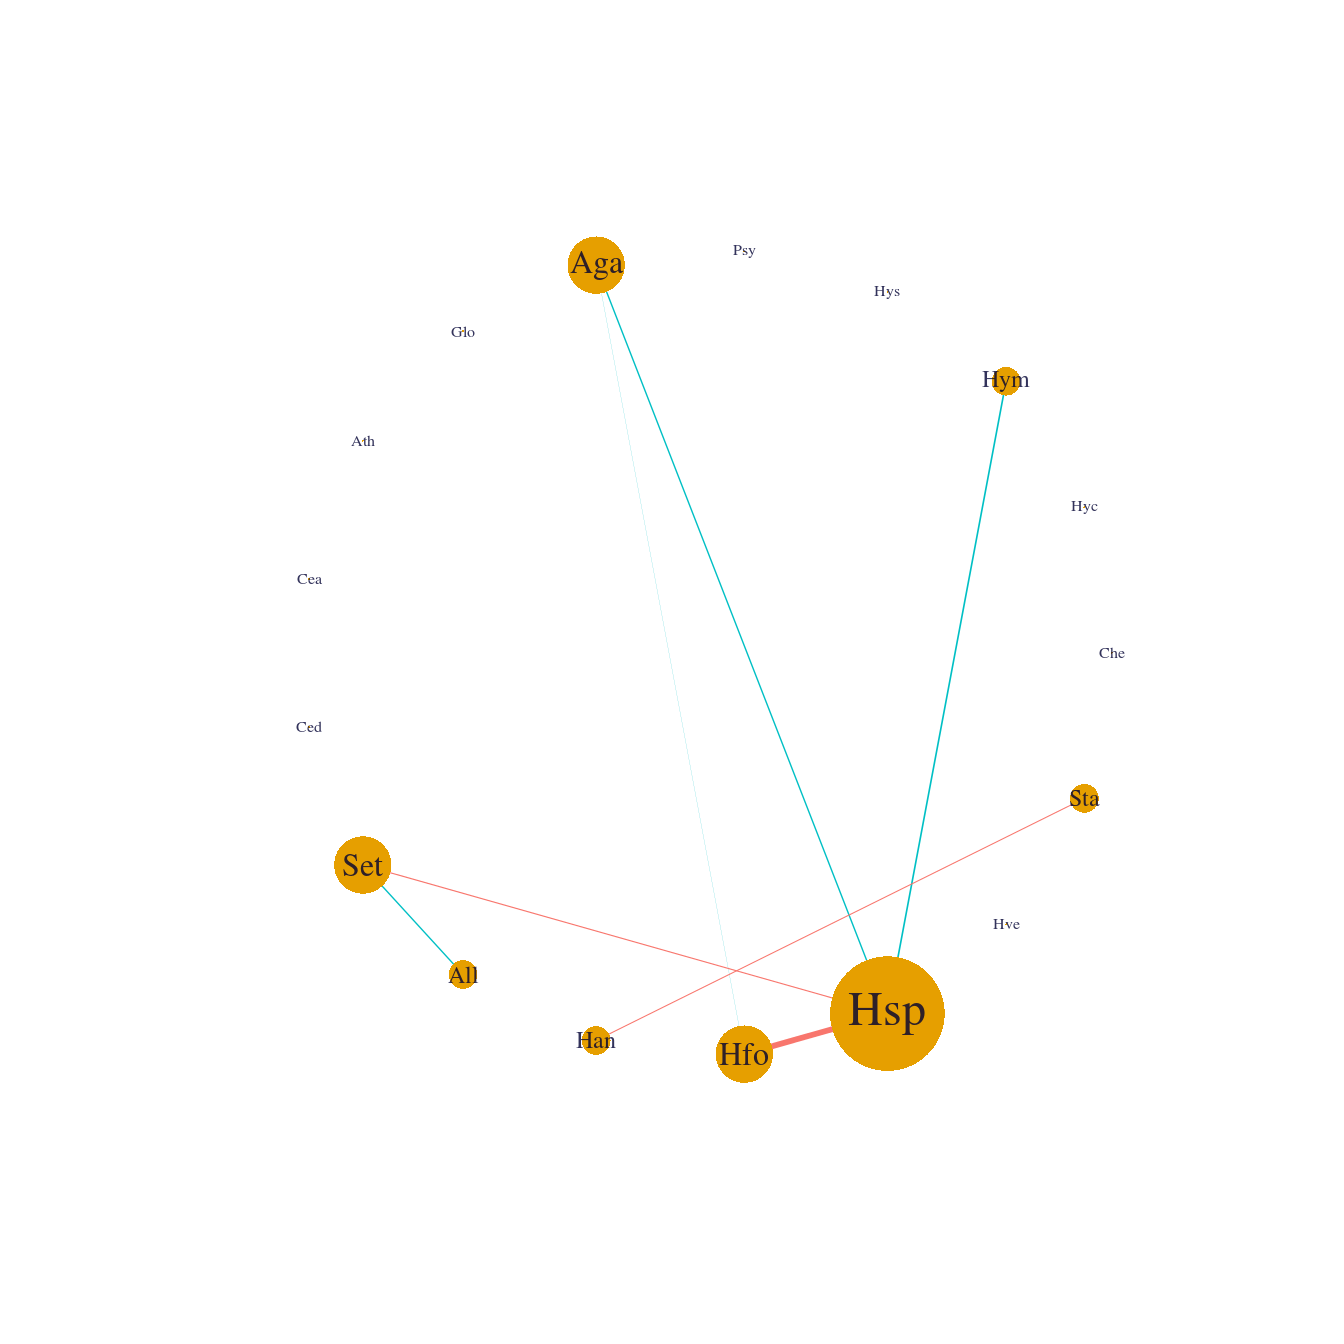
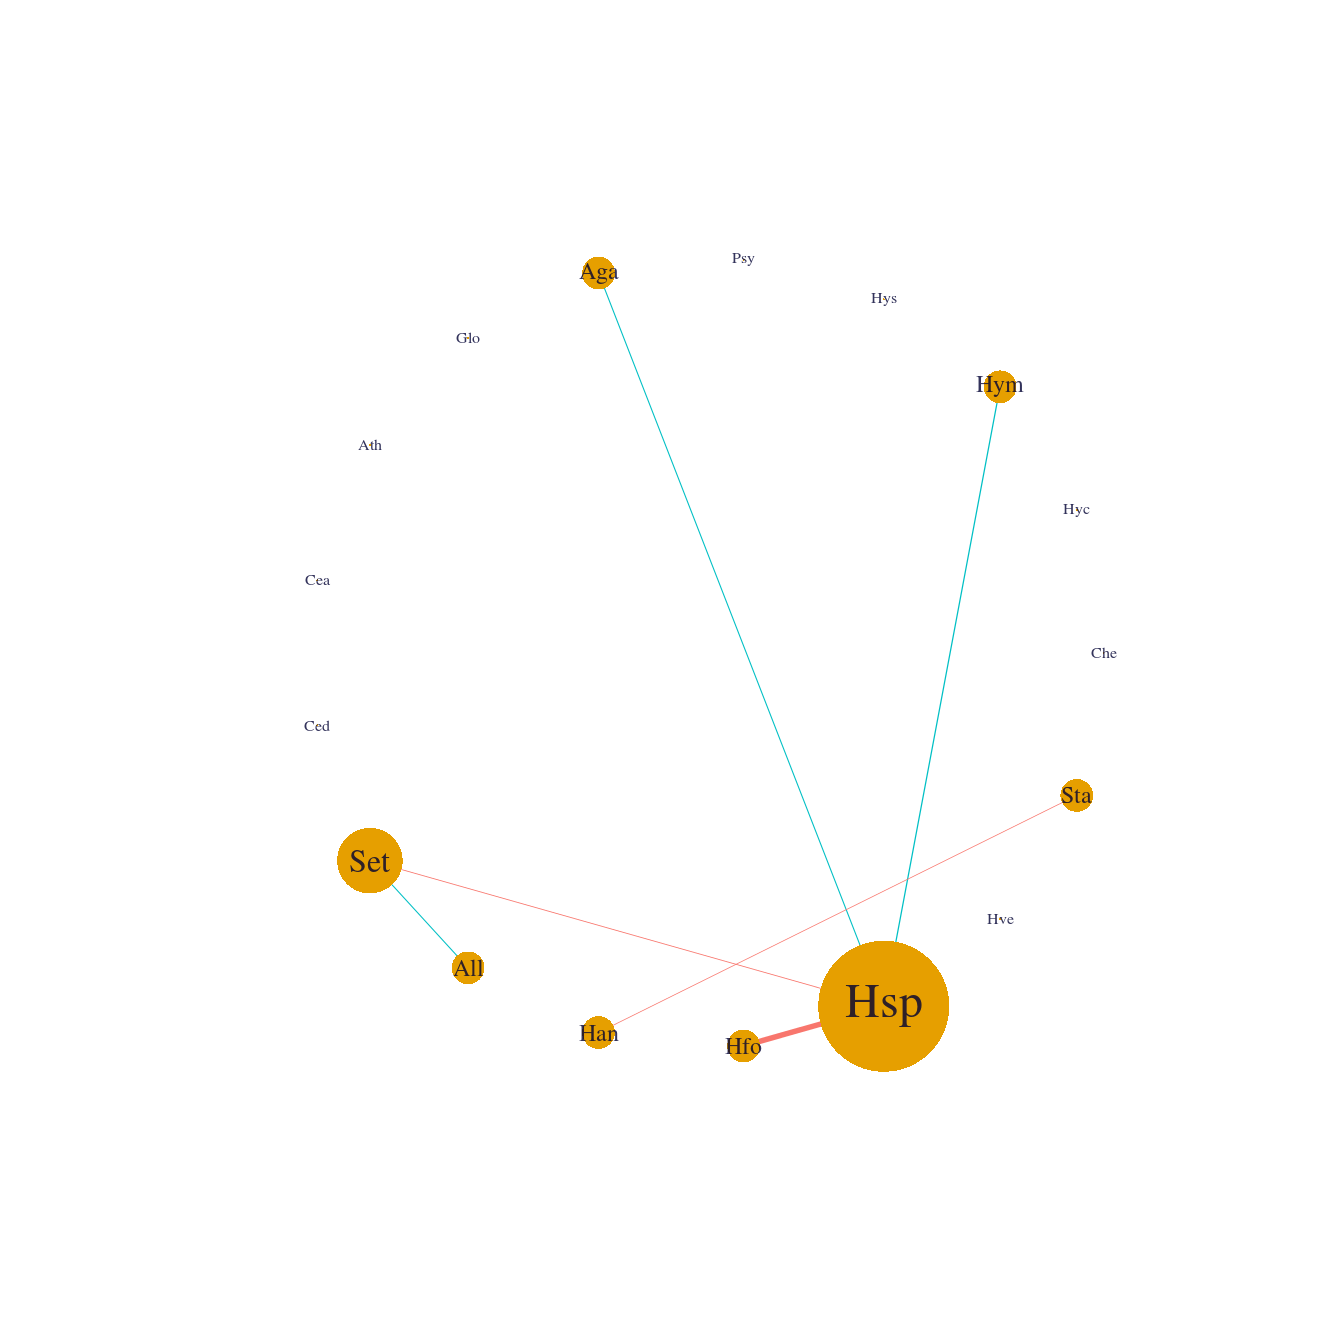
Deploy jchiquet/PLNmodels to github.com/jchiquet/PLNmodels.git:gh-pages

diff --git a/articles/PLNnetwork.html b/articles/PLNnetwork.html
@@ -31,7 +31,7 @@
       </button>
       <span class="navbar-brand">
         <a class="navbar-link" href="../index.html">PLNmodels</a>
-        <span class="version label label-default" data-toggle="tooltip" data-placement="bottom" title="Released version">0.8.1</span>
+        <span class="version label label-default" data-toggle="tooltip" data-placement="bottom" title="Released version">0.8.2</span>
       </span>
     </div>
 
@@ -102,7 +102,7 @@
       <h1>Sparse structure estimation for multivariate count data with PLN-network</h1>
                         <h4 class="author">PLN team</h4>
             
-            <h4 class="date">2019-03-05</h4>
+            <h4 class="date">2019-03-06</h4>
       
       
       <div class="hidden name"><code>PLNnetwork.Rmd</code></div>
@@ -437,16 +437,16 @@
 </h3>
 <p>The variables <code>model_BIC</code>, <code>model_StARS</code> and <code>model_pen</code> are other <code>R6Class</code> objects with class <code>PLNnetworkfit</code>. They all inherits from the class <code>PLNfit</code> and thus own all its methods, with a couple of specific one, mostly for network vizualization purposes. Most fields and methods are recalled when such an object is printed:</p>
 <div class="sourceCode" id="cb17"><pre class="sourceCode r"><code class="sourceCode r"><a class="sourceLine" id="cb17-1" data-line-number="1">model_StARS</a></code></pre></div>
-<pre><code>## Poisson Lognormal with sparse inverse covariance (penalty = 0.637)
+<pre><code>## Poisson Lognormal with sparse inverse covariance (penalty = 0.689)
 ## ==================================================================
-##  nb_param    loglik       BIC      ICL R_squared n_edges     EBIC
-##        24 -1174.595 -1221.297 -2507.99     0.964       7 -1231.68
-##  pen_loglik    density
-##   -1177.687 0.04844291
+##  nb_param    loglik       BIC       ICL R_squared n_edges     EBIC
+##        23 -1176.952 -1221.708 -2508.402     0.964       6 -1231.07
+##  pen_loglik density
+##   -1180.199   0.042
 ## ==================================================================
-## * Useful fields 
-##     $model_par, $latent, $var_par, $optim_par 
-##     $loglik, $BIC, $ICL, $loglik_vec, $nb_param, $criteria 
+## * Useful fields
+##     $model_par, $latent, $var_par, $optim_par
+##     $loglik, $BIC, $ICL, $loglik_vec, $nb_param, $criteria
 ## * Useful S3 methods
 ##     print(), coef(), vcov(), sigma(), fitted(), predict(), standard_error()
 ## * Additional fields for sparse network
@@ -459,12 +459,12 @@
 <p>Here, an igraph object can be recovered.</p>
 <div class="sourceCode" id="cb20"><pre class="sourceCode r"><code class="sourceCode r"><a class="sourceLine" id="cb20-1" data-line-number="1">my_graph &lt;-<span class="st"> </span><span class="kw"><a href="https://www.rdocumentation.org/packages/graphics/topics/plot">plot</a></span>(model_StARS, <span class="dt">plot =</span> <span class="ot">FALSE</span>)</a>
 <a class="sourceLine" id="cb20-2" data-line-number="2">my_graph</a></code></pre></div>
-<pre><code>## IGRAPH 1d6cd1b UNW- 17 7 -- 
+<pre><code>## IGRAPH 28af3ea UNW- 17 6 -- 
 ## + attr: name (v/c), label (v/c), label.cex (v/n), size (v/n),
 ## | label.color (v/c), frame.color (v/l), weight (e/n), color (e/c),
 ## | width (e/n)
-## + edges from 1d6cd1b (vertex names):
-## [1] Hym--Hsp Aga--Hfo Aga--Hsp Set--All Set--Hsp Han--Sta Hfo--Hsp</code></pre>
+## + edges from 28af3ea (vertex names):
+## [1] Hym--Hsp Aga--Hsp Set--All Set--Hsp Han--Sta Hfo--Hsp</code></pre>
 <div class="sourceCode" id="cb22"><pre class="sourceCode r"><code class="sourceCode r"><a class="sourceLine" id="cb22-1" data-line-number="1"><span class="kw"><a href="https://www.rdocumentation.org/packages/graphics/topics/plot">plot</a></span>(model_BIC)</a></code></pre></div>
 <p><img src="PLNnetwork_files/figure-html/partial_corr_network-1.png" width="672"></p>
 <div class="sourceCode" id="cb23"><pre class="sourceCode r"><code class="sourceCode r"><a class="sourceLine" id="cb23-1" data-line-number="1"><span class="kw"><a href="https://www.rdocumentation.org/packages/graphics/topics/plot">plot</a></span>(model_StARS)</a></code></pre></div>

diff --git a/articles/PLNPCA.html b/articles/PLNPCA.html
@@ -31,7 +31,7 @@
       </button>
       <span class="navbar-brand">
         <a class="navbar-link" href="../index.html">PLNmodels</a>
-        <span class="version label label-default" data-toggle="tooltip" data-placement="bottom" title="Released version">0.8.1</span>
+        <span class="version label label-default" data-toggle="tooltip" data-placement="bottom" title="Released version">0.8.2</span>
       </span>
     </div>
 
@@ -102,7 +102,7 @@
       <h1>Dimension reduction of multivariate count data with PLN-PCA</h1>
                         <h4 class="author">PLN team</h4>
             
-            <h4 class="date">2019-03-05</h4>
+            <h4 class="date">2019-03-06</h4>
       
       
       <div class="hidden name"><code>PLNPCA.Rmd</code></div>
@@ -203,8 +203,8 @@
 ## --------------------------------------------------------
 ##  Task: Principal Component Analysis
 ## ========================================================
-##  - Ranks considered: from 1 to 6 
-##  - Best model (greater BIC): rank = 4 - R2 = 0.86 
+##  - Ranks considered: from 1 to 6
+##  - Best model (greater BIC): rank = 4 - R2 = 0.86
 ##  - Best model (greater ICL): rank = 3 - R2 = 0.8</code></pre>
 <p>One can also easily access the successive values of the criteria in the collection</p>
 <div class="sourceCode" id="cb7"><pre class="sourceCode r"><code class="sourceCode r"><a class="sourceLine" id="cb7-1" data-line-number="1">PCA_models<span class="op">$</span>criteria <span class="op">%&gt;%</span><span class="st"> </span>knitr<span class="op">::</span><span class="kw"><a href="https://www.rdocumentation.org/packages/knitr/topics/kable">kable</a></span>()</a></code></pre></div>
@@ -473,15 +473,15 @@
 <pre><code>## Poisson Lognormal with rank constrained for PCA (rank = 3)
 ## ==================================================================
 ##  nb_param   loglik       BIC       ICL R_squared
-##        68 -1057.87 -1190.192 -1247.954 0.8035052
+##        68 -1057.87 -1190.192 -1247.954     0.804
 ## ==================================================================
-## * Useful fields 
-##     $model_par, $latent, $var_par, $optim_par 
-##     $loglik, $BIC, $ICL, $loglik_vec, $nb_param, $criteria 
+## * Useful fields
+##     $model_par, $latent, $var_par, $optim_par
+##     $loglik, $BIC, $ICL, $loglik_vec, $nb_param, $criteria
 ## * Useful S3 methods
 ##     print(), coef(), vcov(), sigma(), fitted(), predict(), standard_error()
 ## * Additional fields for PCA
-##     $percent_var, $corr_circle, $scores, $rotation 
+##     $percent_var, $corr_circle, $scores, $rotation
 ## * Additional S3 methods for PCA
 ##     plot.PLNPCAfit()</code></pre>
 </div>

diff --git a/articles/PLNLDA.html b/articles/PLNLDA.html
@@ -31,7 +31,7 @@
       </button>
       <span class="navbar-brand">
         <a class="navbar-link" href="../index.html">PLNmodels</a>
-        <span class="version label label-default" data-toggle="tooltip" data-placement="bottom" title="Released version">0.8.1</span>
+        <span class="version label label-default" data-toggle="tooltip" data-placement="bottom" title="Released version">0.8.2</span>
       </span>
     </div>
 
@@ -102,7 +102,7 @@
       <h1>Supervized classification of multivariate count table with the Poisson discriminant Analysis</h1>
                         <h4 class="author">PLN team</h4>
             
-            <h4 class="date">2019-03-05</h4>
+            <h4 class="date">2019-03-06</h4>
       
       
       <div class="hidden name"><code>PLNLDA.Rmd</code></div>
@@ -278,16 +278,16 @@ p_k             &amp; = \frac{n_k}{\sum_{k' = 1}^K n_{k'}}
 <div class="sourceCode" id="cb5"><pre class="sourceCode r"><code class="sourceCode r"><a class="sourceLine" id="cb5-1" data-line-number="1">myLDA_nocov</a></code></pre></div>
 <pre><code>## Linear Discriminant Analysis for Poisson Lognormal distribution
 ## ==================================================================
-##  nb_param    loglik       BIC       ICL R_squared
-##       391 -799.6686 -1560.519 -1194.071 0.4812456
+##  nb_param   loglik       BIC       ICL R_squared
+##       391 -799.669 -1560.519 -1194.071     0.481
 ## ==================================================================
-## * Useful fields 
-##     $model_par, $latent, $var_par, $optim_par 
-##     $loglik, $BIC, $ICL, $loglik_vec, $nb_param, $criteria 
+## * Useful fields
+##     $model_par, $latent, $var_par, $optim_par
+##     $loglik, $BIC, $ICL, $loglik_vec, $nb_param, $criteria
 ## * Useful S3 methods
 ##     print(), coef(), vcov(), sigma(), fitted(), predict(), standard_error()
 ## * Additional fields for LDA
-##     $percent_var, $corr_map, $scores, $group_means 
+##     $percent_var, $corr_map, $scores, $group_means
 ## * Additional S3 methods for LDA
 ##     plot.PLNLDAfit(), predict.PLNLDAfit()</code></pre>
 <p>Comprehensive information about <code>PLNLDAfit</code> is available via <code><a href="../reference/PLNLDAfit.html">?PLNLDAfit</a></code>.</p>

diff --git a/reference/PLNLDAfit.html b/reference/PLNLDAfit.html
@@ -69,7 +69,7 @@ predict.PLNPCAfit method for prediction" />
       </button>
       <span class="navbar-brand">
         <a class="navbar-link" href="../index.html">PLNmodels</a>
-        <span class="version label label-default" data-toggle="tooltip" data-placement="bottom" title="Released version">0.8.1</span>
+        <span class="version label label-default" data-toggle="tooltip" data-placement="bottom" title="Released version">0.8.2</span>
       </span>
     </div>
 
@@ -190,16 +190,16 @@ See the documentation for the methods inherited by  <code><a href='PLNfit.html'>
 #&gt;  Performing discriminant Analysis...
 #&gt;  DONE!</div><div class='input'><span class='fu'><a href='https://www.rdocumentation.org/packages/base/topics/class'>class</a></span>(<span class='no'>myPLNLDA</span>)</div><div class='output co'>#&gt; [1] "PLNLDAfit" "PLNfit"    "R6"       </div><div class='input'><span class='fu'><a href='https://www.rdocumentation.org/packages/base/topics/print'>print</a></span>(<span class='no'>myPLNLDA</span>)</div><div class='output co'>#&gt; Linear Discriminant Analysis for Poisson Lognormal distribution
 #&gt; ==================================================================
-#&gt;  nb_param    loglik       BIC       ICL R_squared
-#&gt;       391 -895.4072 -1656.258 -1902.398 0.9550261
+#&gt;  nb_param   loglik       BIC       ICL R_squared
+#&gt;       391 -895.407 -1656.258 -1902.398     0.955
 #&gt; ==================================================================
-#&gt; * Useful fields 
-#&gt;     $model_par, $latent, $var_par, $optim_par 
-#&gt;     $loglik, $BIC, $ICL, $loglik_vec, $nb_param, $criteria 
+#&gt; * Useful fields
+#&gt;     $model_par, $latent, $var_par, $optim_par
+#&gt;     $loglik, $BIC, $ICL, $loglik_vec, $nb_param, $criteria
 #&gt; * Useful S3 methods
 #&gt;     print(), coef(), vcov(), sigma(), fitted(), predict(), standard_error()
 #&gt; * Additional fields for LDA
-#&gt;     $percent_var, $corr_map, $scores, $group_means 
+#&gt;     $percent_var, $corr_map, $scores, $group_means
 #&gt; * Additional S3 methods for LDA
 #&gt;     plot.PLNLDAfit(), predict.PLNLDAfit()</div></pre>
   </div>

diff --git a/reference/PLNPCAfit.html b/reference/PLNPCAfit.html
@@ -68,7 +68,7 @@ plot.PLNPCAfit methods for PCA vizualization" />
       </button>
       <span class="navbar-brand">
         <a class="navbar-link" href="../index.html">PLNmodels</a>
-        <span class="version label label-default" data-toggle="tooltip" data-placement="bottom" title="Released version">0.8.1</span>
+        <span class="version label label-default" data-toggle="tooltip" data-placement="bottom" title="Released version">0.8.2</span>
       </span>
     </div>
 
@@ -196,17 +196,17 @@ See the documentation for the methods inherited by  <code><a href='PLNfit.html'>
 <span class='fu'><a href='https://www.rdocumentation.org/packages/base/topics/class'>class</a></span>(<span class='no'>myPCA</span>)</div><div class='output co'>#&gt; [1] "PLNPCAfit" "PLNfit"    "R6"       </div><div class='input'><span class='fu'><a href='https://www.rdocumentation.org/packages/base/topics/print'>print</a></span>(<span class='no'>myPCA</span>)</div><div class='output co'>#&gt; Poisson Lognormal with rank constrained for PCA (rank = 3)
 #&gt; ==================================================================
 #&gt;  nb_param   loglik       BIC       ICL R_squared
-#&gt;        68 -1057.87 -1190.192 -1247.954 0.8035052
+#&gt;        68 -1057.87 -1190.192 -1247.954     0.804
 #&gt; ==================================================================
-#&gt; * Useful fields 
-#&gt;     $model_par, $latent, $var_par, $optim_par 
-#&gt;     $loglik, $BIC, $ICL, $loglik_vec, $nb_param, $criteria 
+#&gt; * Useful fields
+#&gt;     $model_par, $latent, $var_par, $optim_par
+#&gt;     $loglik, $BIC, $ICL, $loglik_vec, $nb_param, $criteria
 #&gt; * Useful S3 methods
 #&gt;     print(), coef(), vcov(), sigma(), fitted(), predict(), standard_error()
 #&gt; * Additional fields for PCA
-#&gt;     $percent_var, $corr_circle, $scores, $rotation 
+#&gt;     $percent_var, $corr_circle, $scores, $rotation
 #&gt; * Additional S3 methods for PCA
-#&gt;     plot.PLNPCAfit() </div></pre>
+#&gt;     plot.PLNPCAfit()</div></pre>
   </div>
   <div class="col-md-3 hidden-xs hidden-sm" id="sidebar">
     <h2>Contents</h2>

diff --git a/reference/PLNnetworkfit.html b/reference/PLNnetworkfit.html
@@ -67,7 +67,7 @@ See the documentation for plot.PLNnetworkfit + methods inherited from PLNfit." /
       </button>
       <span class="navbar-brand">
         <a class="navbar-link" href="../index.html">PLNmodels</a>
-        <span class="version label label-default" data-toggle="tooltip" data-placement="bottom" title="Released version">0.8.1</span>
+        <span class="version label label-default" data-toggle="tooltip" data-placement="bottom" title="Released version">0.8.2</span>
       </span>
     </div>
 
@@ -193,13 +193,13 @@ See the documentation for <code><a href='plot.PLNnetworkfit.html'>plot.PLNnetwor
 <span class='fu'><a href='https://www.rdocumentation.org/packages/base/topics/class'>class</a></span>(<span class='no'>myPLNnet</span>)</div><div class='output co'>#&gt; [1] "PLNnetworkfit" "PLNfit"        "R6"           </div><div class='input'><span class='fu'><a href='https://www.rdocumentation.org/packages/base/topics/print'>print</a></span>(<span class='no'>myPLNnet</span>)</div><div class='output co'>#&gt; Poisson Lognormal with sparse inverse covariance (penalty = 2.23)
 #&gt; ==================================================================
 #&gt;  nb_param    loglik      BIC       ICL R_squared n_edges      EBIC pen_loglik
-#&gt;        25 -1337.192 -1385.84 -2766.098 0.9965763       8 -1397.173  -1341.913
-#&gt;     density
-#&gt;  0.05536332
+#&gt;        25 -1337.192 -1385.84 -2766.098     0.997       8 -1397.173  -1341.913
+#&gt;  density
+#&gt;    0.055
 #&gt; ==================================================================
-#&gt; * Useful fields 
-#&gt;     $model_par, $latent, $var_par, $optim_par 
-#&gt;     $loglik, $BIC, $ICL, $loglik_vec, $nb_param, $criteria 
+#&gt; * Useful fields
+#&gt;     $model_par, $latent, $var_par, $optim_par
+#&gt;     $loglik, $BIC, $ICL, $loglik_vec, $nb_param, $criteria
 #&gt; * Useful S3 methods
 #&gt;     print(), coef(), vcov(), sigma(), fitted(), predict(), standard_error()
 #&gt; * Additional fields for sparse network

diff --git a/reference/PLNfit.html b/reference/PLNfit.html
@@ -71,7 +71,7 @@ Fields are accessed via active binding and cannot be changed by the user." />
       </button>
       <span class="navbar-brand">
         <a class="navbar-link" href="../index.html">PLNmodels</a>
-        <span class="version label label-default" data-toggle="tooltip" data-placement="bottom" title="Released version">0.8.1</span>
+        <span class="version label label-default" data-toggle="tooltip" data-placement="bottom" title="Released version">0.8.2</span>
       </span>
     </div>
 
@@ -192,11 +192,11 @@ See the documentation for <code><a href='coef.PLNfit.html'>coef</a></code>, <cod
 #&gt;  DONE!</div><div class='input'><span class='fu'><a href='https://www.rdocumentation.org/packages/base/topics/class'>class</a></span>(<span class='no'>myPLN</span>)</div><div class='output co'>#&gt; [1] "PLNfit" "R6"    </div><div class='input'><span class='fu'><a href='https://www.rdocumentation.org/packages/base/topics/print'>print</a></span>(<span class='no'>myPLN</span>)</div><div class='output co'>#&gt; A multivariate Poisson Lognormal fit with full covariance model.
 #&gt; ==================================================================
 #&gt;  nb_param   loglik       BIC      ICL R_squared
-#&gt;       170 -1129.48 -1460.284 -2305.22 0.9898247
+#&gt;       170 -1129.48 -1460.284 -2305.22      0.99
 #&gt; ==================================================================
-#&gt; * Useful fields 
-#&gt;     $model_par, $latent, $var_par, $optim_par 
-#&gt;     $loglik, $BIC, $ICL, $loglik_vec, $nb_param, $criteria 
+#&gt; * Useful fields
+#&gt;     $model_par, $latent, $var_par, $optim_par
+#&gt;     $loglik, $BIC, $ICL, $loglik_vec, $nb_param, $criteria
 #&gt; * Useful S3 methods
 #&gt;     print(), coef(), vcov(), sigma(), fitted(), predict(), standard_error()</div></pre>
   </div>

diff --git a/articles/PLN.html b/articles/PLN.html
@@ -31,7 +31,7 @@
       </button>
       <span class="navbar-brand">
         <a class="navbar-link" href="../index.html">PLNmodels</a>
-        <span class="version label label-default" data-toggle="tooltip" data-placement="bottom" title="Released version">0.8.1</span>
+        <span class="version label label-default" data-toggle="tooltip" data-placement="bottom" title="Released version">0.8.2</span>
       </span>
     </div>
 
@@ -103,7 +103,7 @@
       <h1>Analyzing multivariate count data with the Poisson log-normal model</h1>
                         <h4 class="author">PLN team</h4>
             
-            <h4 class="date">2019-03-05</h4>
+            <h4 class="date">2019-03-06</h4>
       
       
       <div class="hidden name"><code>PLN.Rmd</code></div>
@@ -194,11 +194,11 @@ PLN: geometrical view
 <pre><code>## A multivariate Poisson Lognormal fit with full covariance model.
 ## ==================================================================
 ##  nb_param   loglik       BIC      ICL R_squared
-##       170 -1129.48 -1460.284 -2305.22 0.9898247
+##       170 -1129.48 -1460.284 -2305.22      0.99
 ## ==================================================================
-## * Useful fields 
-##     $model_par, $latent, $var_par, $optim_par 
-##     $loglik, $BIC, $ICL, $loglik_vec, $nb_param, $criteria 
+## * Useful fields
+##     $model_par, $latent, $var_par, $optim_par
+##     $loglik, $BIC, $ICL, $loglik_vec, $nb_param, $criteria
 ## * Useful S3 methods
 ##     print(), coef(), vcov(), sigma(), fitted(), predict(), standard_error()</code></pre>
 <p>See also <code><a href="../reference/PLNfit.html">?PLNfit</a></code> for more comprehensive information.</p>

diff --git a/articles/Trichoptera.html b/articles/Trichoptera.html
@@ -31,7 +31,7 @@
       </button>
       <span class="navbar-brand">
         <a class="navbar-link" href="../index.html">PLNmodels</a>
-        <span class="version label label-default" data-toggle="tooltip" data-placement="bottom" title="Released version">0.8.1</span>
+        <span class="version label label-default" data-toggle="tooltip" data-placement="bottom" title="Released version">0.8.2</span>
       </span>
     </div>
 
@@ -102,7 +102,7 @@
       <h1>Description of the Trichoptera data set</h1>
                         <h4 class="author">PLN team</h4>
             
-            <h4 class="date">2019-03-05</h4>
+            <h4 class="date">2019-03-06</h4>
       
       
       <div class="hidden name"><code>Trichoptera.Rmd</code></div>

diff --git a/articles/Import_data.html b/articles/Import_data.html
@@ -31,7 +31,7 @@
       </button>
       <span class="navbar-brand">
         <a class="navbar-link" href="../index.html">PLNmodels</a>
-        <span class="version label label-default" data-toggle="tooltip" data-placement="bottom" title="Released version">0.8.1</span>
+        <span class="version label label-default" data-toggle="tooltip" data-placement="bottom" title="Released version">0.8.2</span>
       </span>
     </div>
 
@@ -102,7 +102,7 @@
       <h1>Data importation in PLNmodels</h1>
                         <h4 class="author">PLN team</h4>
             
-            <h4 class="date">2019-03-05</h4>
+            <h4 class="date">2019-03-06</h4>
       
       
       <div class="hidden name"><code>Import_data.Rmd</code></div>

diff --git a/reference/PLNmodels.html b/reference/PLNmodels.html
@@ -67,7 +67,7 @@ variational algorithms to fit such models accompanied with a set of functions fo
       </button>
       <span class="navbar-brand">
         <a class="navbar-link" href="../index.html">PLNmodels</a>
-        <span class="version label label-default" data-toggle="tooltip" data-placement="bottom" title="Released version">0.8.1</span>
+        <span class="version label label-default" data-toggle="tooltip" data-placement="bottom" title="Released version">0.8.2</span>
       </span>
     </div>
 

diff --git a/reference/prepare_data.html b/reference/prepare_data.html
@@ -66,7 +66,7 @@ a covariate data frame in the most comprehensive way and (ii) computes offsets f
       </button>
       <span class="navbar-brand">
         <a class="navbar-link" href="../index.html">PLNmodels</a>
-        <span class="version label label-default" data-toggle="tooltip" data-placement="bottom" title="Released version">0.8.1</span>
+        <span class="version label label-default" data-toggle="tooltip" data-placement="bottom" title="Released version">0.8.2</span>
       </span>
     </div>
 
